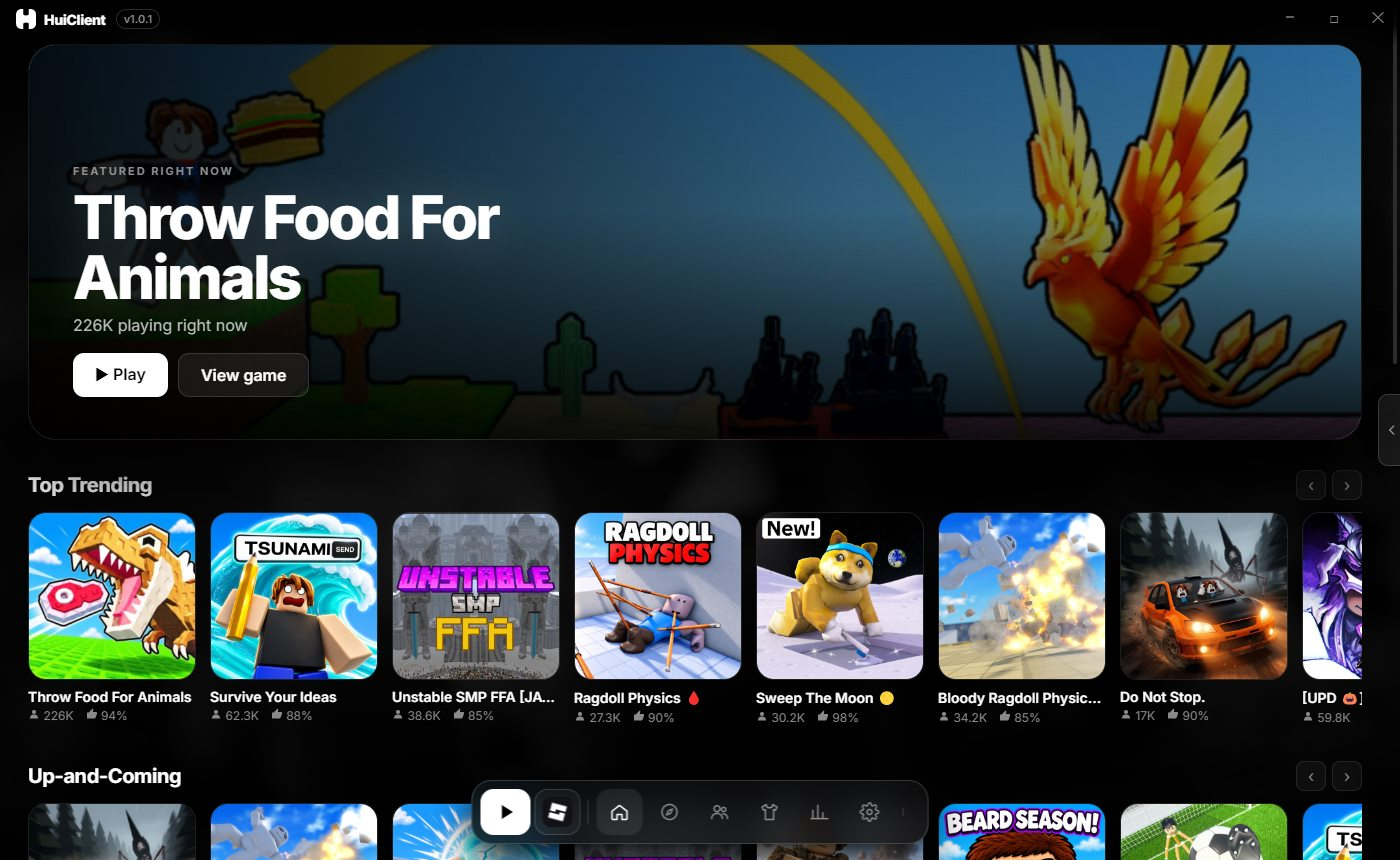
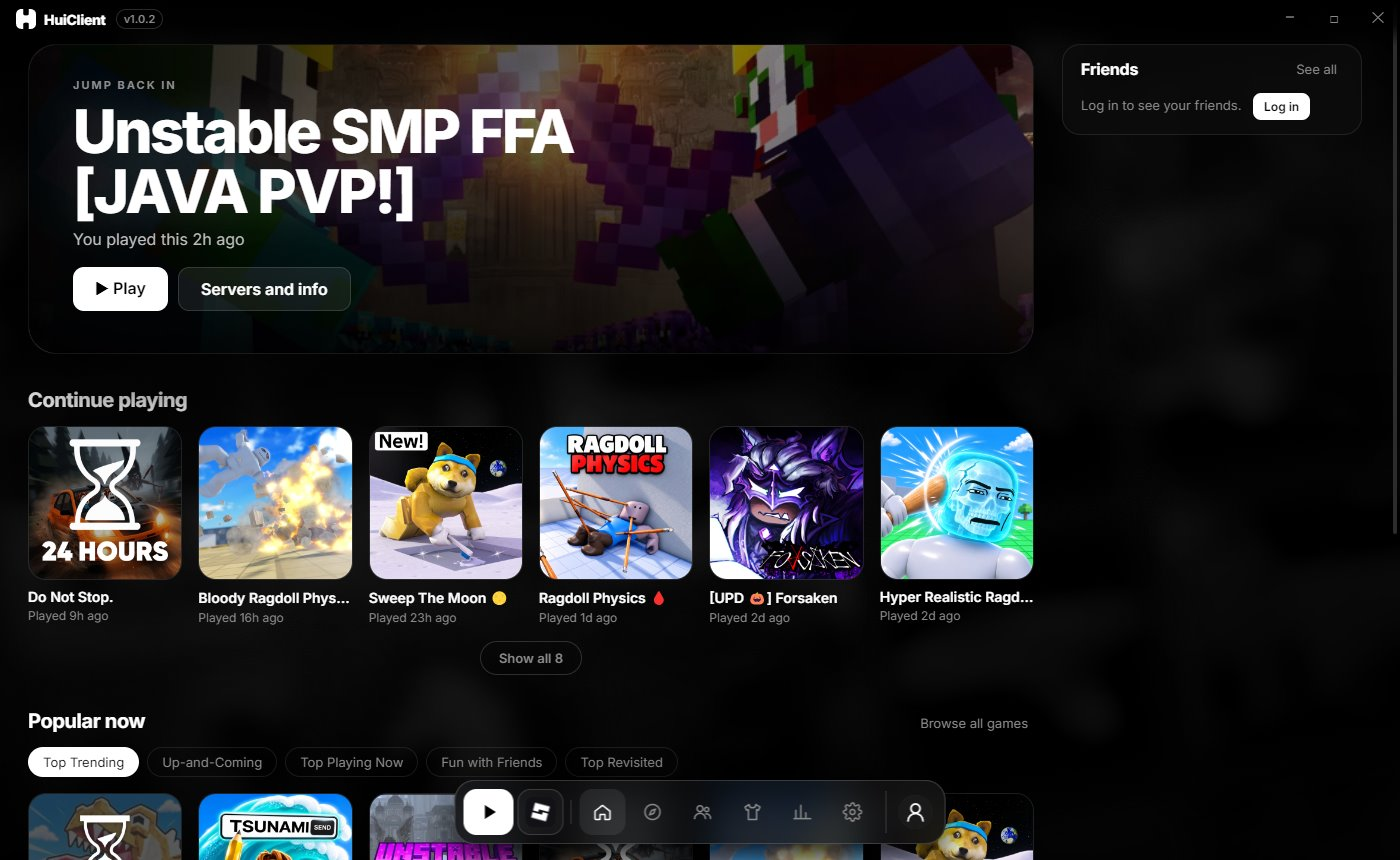
Download page

diff --git a/index.html b/index.html
@@ -253,18 +253,18 @@ footer { padding: 28px 0 40px; border-top: 1px solid var(--line); color: var(--m
         </div>
         <div class="tour-tabs" role="tablist" aria-label="HuiClient's screens">
           <span class="tour-pill" aria-hidden="true"></span>
-          <button role="tab" id="t-home" aria-controls="tourView" aria-selected="true" data-shot="home" data-say="What's popular right now, your favorites, and the games you played last." data-alt="HuiClient's Home page: a featured game, then rows of trending games, with the dock of buttons at the bottom.">Home</button>
-          <button role="tab" id="t-servers" aria-controls="tourView" aria-selected="false" tabindex="-1" data-shot="servers" data-say="Every open server, how full it is and its ping. Join the one you want." data-alt="A game's server list: a bar for how full each server is, its ping, and a Join button.">Servers</button>
+          <button role="tab" id="t-home" aria-controls="tourView" aria-selected="true" data-shot="home" data-say="The game you played last, ready to rejoin, then your favorites and what's popular, with your friends on the side." data-alt="HuiClient's Home page: the last played game with a Play button, a grid of games to continue, popular games, and a friends column on the right.">Home</button>
+          <button role="tab" id="t-servers" aria-controls="tourView" aria-selected="false" tabindex="-1" data-shot="servers" data-say="Every open server, how full it is and its ping. Sort by most or fewest players and join the one you want." data-alt="A game's server list sorted by most players: a bar for how full each server is, its ping, and a Join button, next to the game's Play and quick-join buttons.">Servers</button>
           <button role="tab" id="t-avatars" aria-controls="tourView" aria-selected="false" tabindex="-1" data-shot="avatars" data-say="Any player's saved avatars in 3D, with every item and its price." data-alt="A saved avatar shown in 3D next to the list of its items and their prices.">Saved avatars</button>
           <button role="tab" id="t-playtime" aria-controls="tourView" aria-selected="false" tabindex="-1" data-shot="playtime" data-say="How long you played today and this week, and your most played games." data-alt="The Playtime page: today's time, a bar for each day of the week, and the most played games.">Playtime</button>
-          <button role="tab" id="t-versions" aria-controls="tourView" aria-selected="false" tabindex="-1" data-shot="versions" data-say="Pick Roblox's update channel, repair a broken install, or roll back an update." data-alt="Deployment settings: the update channel, the installed Roblox and Studio versions, and Repair and Roll back buttons.">Roblox versions</button>
+          <button role="tab" id="t-versions" aria-controls="tourView" aria-selected="false" tabindex="-1" data-shot="versions" data-say="Pick Roblox's update channel, repair a broken install, or roll back an update." data-alt="Deployment settings: the update channel, the installed Roblox and Studio versions, and Repair, Choose a version and Roll back buttons.">Roblox versions</button>
           <button role="tab" id="t-mods" aria-controls="tourView" aria-selected="false" tabindex="-1" data-shot="mods" data-say="Your own mouse cursor, font and sounds inside Roblox." data-alt="Mods settings: mouse cursor choices, the game font, other cursors and sounds.">Mods</button>
         </div>
         <div class="tour-progress" aria-hidden="true"><i id="tourProgress"></i></div>
         <div class="tour-stage">
           <figure class="shot" id="tourView" role="tabpanel" aria-labelledby="t-home">
-            <div class="shot-frame"><img id="shotA" src="home.jpg" width="1400" height="860" alt="HuiClient's Home page: a featured game, then rows of trending games, with the dock of buttons at the bottom."><img id="shotB" src="home.jpg" width="1400" height="860" alt="" aria-hidden="true" style="opacity:0"></div>
-            <figcaption id="tourSay">What's popular right now, your favorites, and the games you played last.</figcaption>
+            <div class="shot-frame"><img id="shotA" src="home.jpg" width="1400" height="860" alt="HuiClient's Home page: the last played game with a Play button, a grid of games to continue, popular games, and a friends column on the right."><img id="shotB" src="home.jpg" width="1400" height="860" alt="" aria-hidden="true" style="opacity:0"></div>
+            <figcaption id="tourSay">The game you played last, ready to rejoin, then your favorites and what's popular, with your friends on the side.</figcaption>
           </figure>
         </div>
       </div>
@@ -277,9 +277,10 @@ footer { padding: 28px 0 40px; border-top: 1px solid var(--line); color: var(--m
           <p class="sub reveal">Everything you open Roblox's website for, plus the things it doesn't do.</p>
         </div>
         <ul class="does">
+          <li class="reveal"><b>A Home that's yours</b><span>The game you played last, ready to rejoin, with your favorites and what's popular in tidy grids.</span></li>
           <li class="reveal"><b>Several Roblox windows</b><span>Play on more than one account at the same time.</span></li>
           <li class="reveal"><b>Your accounts</b><span>Sign in once per account, switch with a click, or log in with a code from your phone.</span></li>
-          <li class="reveal"><b>Friends</b><span>See who's online and what they're playing, chat, and join them.</span></li>
+          <li class="reveal"><b>Friends</b><span>See who's online and what they're playing right on Home, chat, and join them.</span></li>
           <li class="reveal"><b>Servers</b><span>Look through a game's servers, pick the one you join, and rejoin old ones.</span></li>
           <li class="reveal"><b>Saved avatars</b><span>Browse the avatars a player saved in 3D, with every item and its price.</span></li>
           <li class="reveal"><b>Playtime</b><span>How long you played today, this week, and in each game.</span></li>
